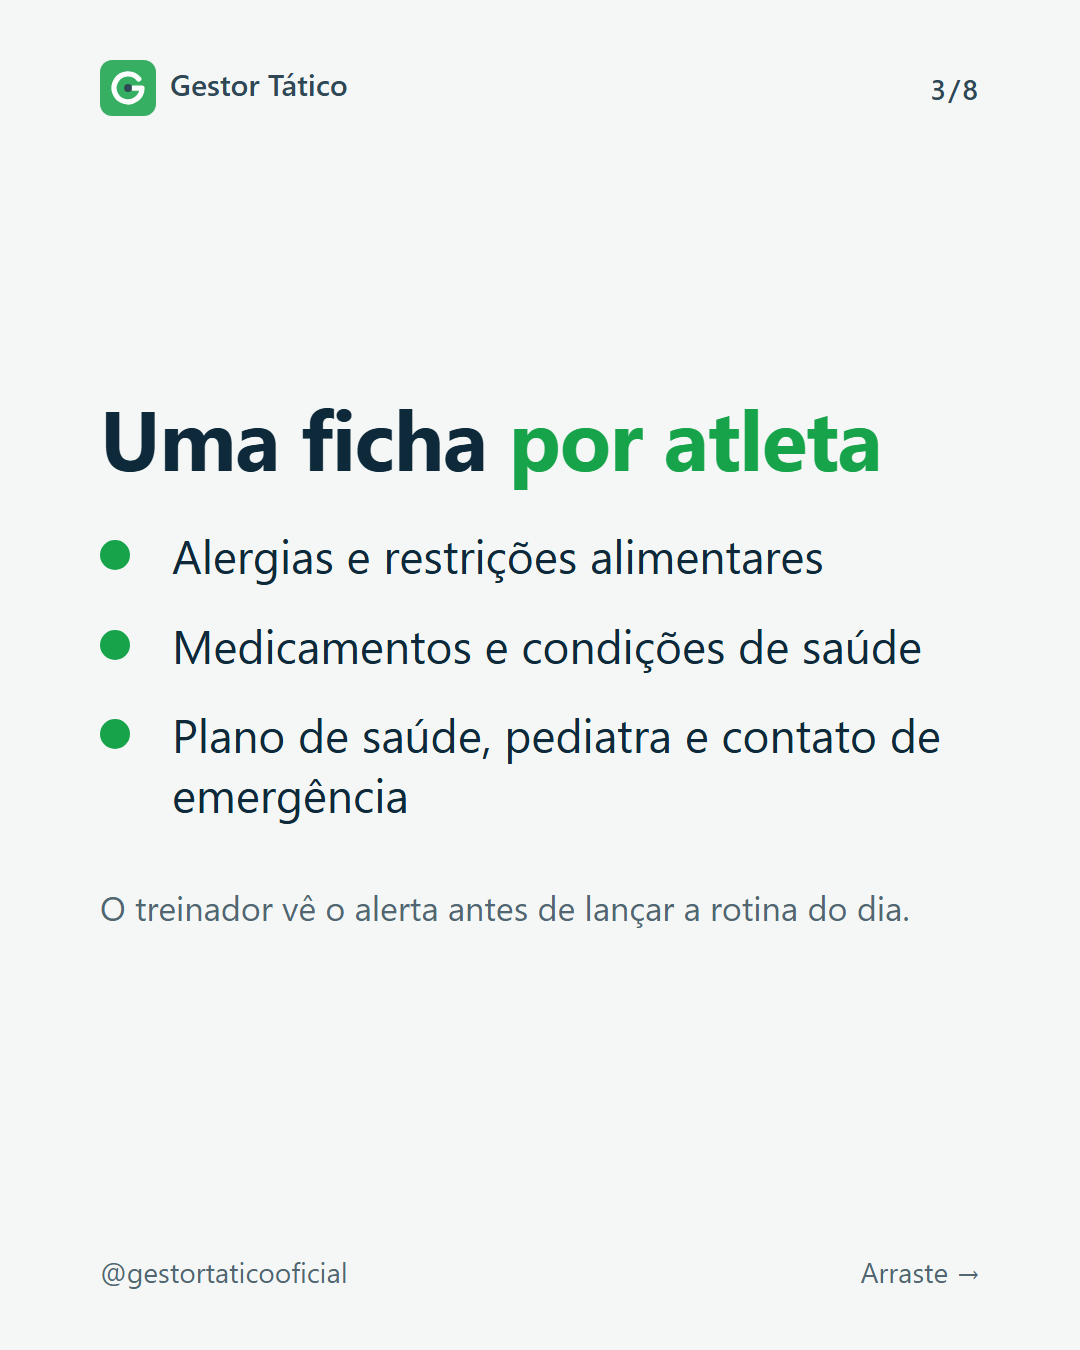
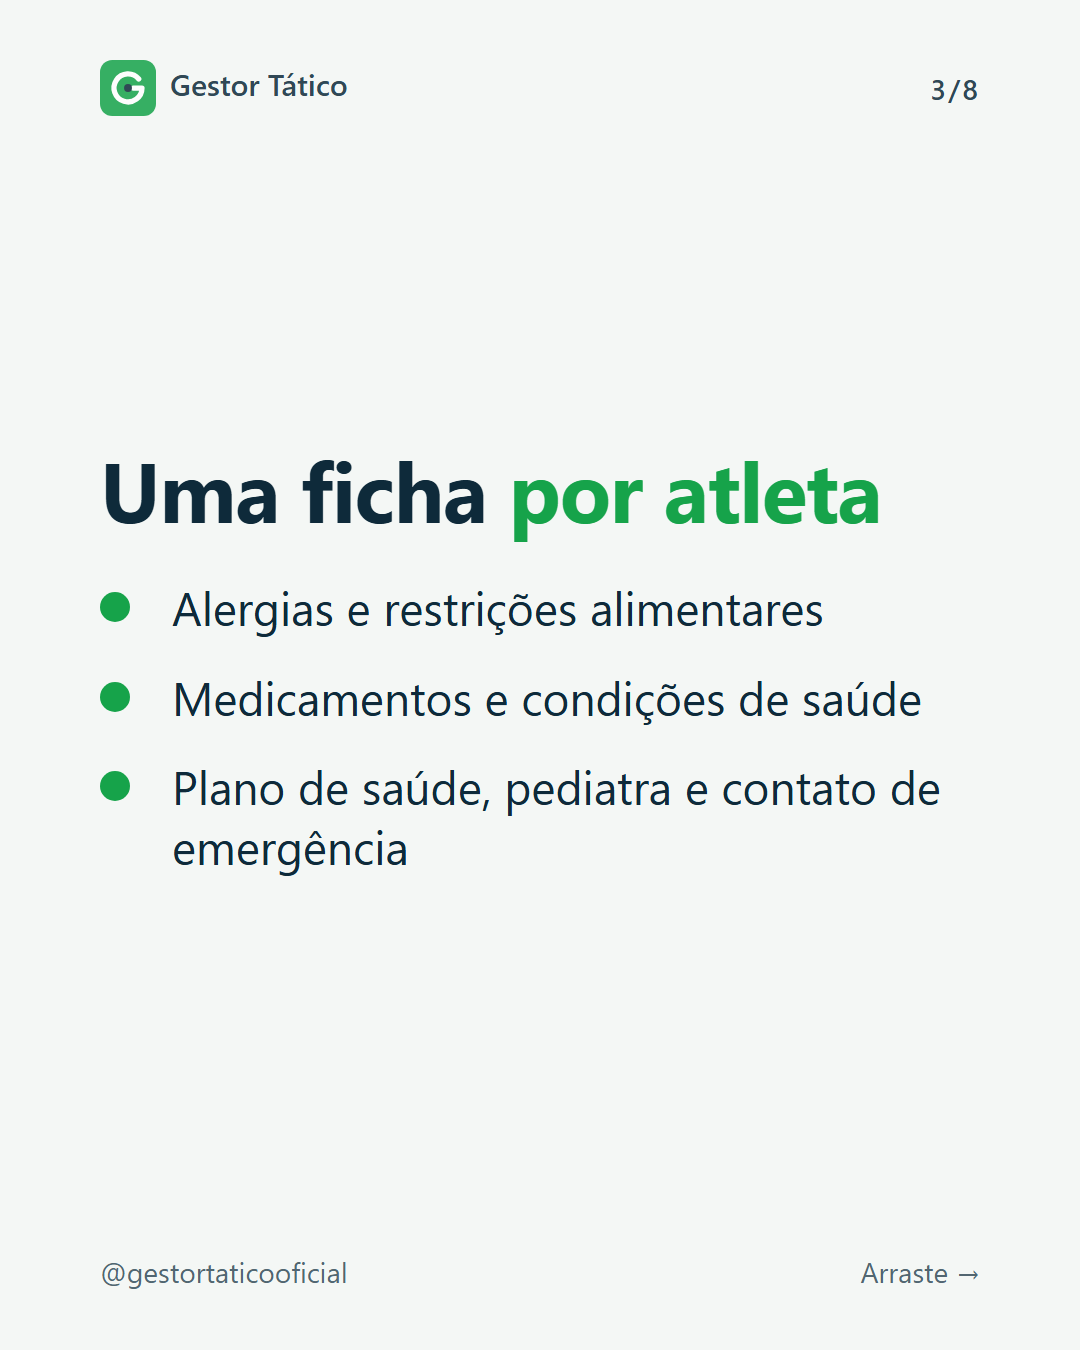
Instagram: carrossel de saúde sem a frase da rotina do dia e rascunhos da semana de 16/11

Changed region(s): [[0.0917, 0.28, 0.8861, 0.6844]]

diff --git a/docs/marca/instagram/decks.js b/docs/marca/instagram/decks.js
@@ -42,7 +42,7 @@ CTA],
 '20261111-saude':[
 {t:'capa',tag:'Ficha de saúde',h:'Atestado <em>vencido</em> e ninguém percebeu?',p:'Ficha de saúde e atestado médico no mesmo lugar do atleta.'},
 {h:'Escolinha guarda <em>dado de criança</em>',p:'Alergias, medicamentos, laudos, atestados. Um papel perdido na mochila do treinador não é um bom arquivo.'},
-{t:'claro',h:'Uma ficha <em>por atleta</em>',list:['Alergias e restrições alimentares','Medicamentos e condições de saúde','Plano de saúde, pediatra e contato de emergência'],n:'O treinador vê o alerta antes de lançar a rotina do dia.'},
+{t:'claro',h:'Uma ficha <em>por atleta</em>',list:['Alergias e restrições alimentares','Medicamentos e condições de saúde','Plano de saúde, pediatra e contato de emergência']},
 {h:'Atestado com <em>data de validade</em>',p:'Registre até quando o atestado vale. O sistema mostra um selo na lista de atletas e um filtro de vencidos e de vencendo em 30 dias.'},
 {t:'claro',h:'O aviso aparece <em>onde você decide</em>',list:['No painel de atenção da coordenação','Na convocação, se não vale na data do jogo','No portal, para a família providenciar o novo']},
 {h:'Documentos <em>não ficam em link público</em>',p:'Exames e laudos anexados só abrem para a equipe do clube e para o responsável daquele atleta. Toda alteração fica no histórico.'},
@@ -53,4 +53,25 @@ CTA],
 ],
 '20261113-pergunta':[
 {t:'capa',tag:'Pergunta do dia',h:'Como os pais ficam sabendo da <em>convocação</em>?',p:'Grupo de WhatsApp, recado no treino ou outro jeito? Conta nos comentários.'}
+],
+'20261116-atencao':[
+{t:'capa',tag:'Painel da coordenação',h:'O que pede <em>atenção</em> hoje, numa tela só',p:'Faltas, atestados, estoque e contas: o painel junta o que a coordenação não pode esquecer.'},
+{h:'Problema não avisa <em>quando chega</em>',p:'O atleta some, o atestado vence, a bola acaba, a conta atrasa. Cada coisa mora num caderno, e você descobre tarde.'},
+{t:'claro',h:'Só aparece o que <em>tem ocorrência</em>',p:'O painel lista os alertas do dia. Sem nenhum, mostra que está tudo em dia. Nada de tela cheia de zero.'},
+{h:'No <em>cuidado com os atletas</em>',list:['Atletas com 3 ou mais faltas seguidas','Atestado médico vencido ou perto de vencer','Matrículas aguardando o aceite da família']},
+{t:'claro',h:'No <em>dinheiro e no material</em>',list:['Contas a pagar atrasadas','Produtos com estoque baixo ou zerado','Recebido no mês e a vencer']},
+{h:'Cada alerta é um <em>atalho</em>',p:'Tocou no aviso, abre a lista já filtrada: os atletas faltosos, os atestados vencidos, os produtos sem estoque.'},
+{t:'claro',h:'Mais de uma <em>unidade</em>?',p:'Veja a visão geral ou escolha uma unidade para recortar o painel.',n:'O estoque e as contas a pagar seguem consolidados, não por unidade.'},
+CTA],
+'20261118-campeonato':[
+{t:'capa',tag:'Campeonatos',h:'Como foi a <em>campanha</em> da categoria?',p:'Vitórias, gols e artilheiros do campeonato, a partir das súmulas.'},
+{h:'Resultado perdido em <em>grupo de WhatsApp</em>',p:'No fim do campeonato ninguém lembra o placar da terceira rodada nem quem foi o artilheiro.'},
+{t:'claro',h:'Placar e súmula, <em>jogo a jogo</em>',p:'Depois da partida, lance o placar e, na convocação, os gols e os cartões de cada atleta.',n:'A soma dos gols dos atletas não pode passar do placar.'},
+{h:'A campanha de cada <em>categoria</em>',list:['Jogos, vitórias, empates e derrotas','Gols pró, gols contra e saldo','Pontos: vitória vale 3, empate vale 1']},
+{t:'claro',h:'Artilharia <em>sem planilha</em>',p:'Os gols lançados nas súmulas somam sozinhos numa lista de artilheiros do campeonato.'},
+{h:'Disciplina <em>à vista</em>',p:'A página do campeonato mostra quem está suspenso e quem está pendurado, pelo limite de amarelos que você definiu.'},
+{t:'claro',h:'O que ele <em>ainda não faz</em>',p:'O sistema registra o lado do seu clube. Não monta a tabela de classificação com os outros times.'},
+CTA],
+'20261120-estoque':[
+{t:'capa',tag:'Estoque',h:'Quantas bolas <em>sobraram</em> no armário?',p:'Entradas, saídas e saldo sempre certo, com aviso quando o estoque baixa.'}
 ]};

diff --git a/docs/marca/instagram/semanas/2026-11-16/rascunhos.md b/docs/marca/instagram/semanas/2026-11-16/rascunhos.md
@@ -1,0 +1,90 @@
+# Rascunhos da semana de 16/11/2026 (@gestortaticooficial)
+
+Preparado em 09/11/2026 pelo agente semanal. **Nada foi publicado.** Revise, ajuste e publique pelo Meta Business Suite.
+Obs.: a semana de 09/11 já estava coberta (Reel, Portal, Saúde, pergunta); esta é a seguinte. Temas novos: painel de atenção, campeonato (campanha e artilharia) e estoque.
+
+---
+
+## Seg 16/11: carrossel "O que pede atenção" (8 slides)
+
+- **Formato:** carrossel
+- **Arquivos:** `png/20261116-atencao-1.png` a `png/20261116-atencao-8.png` (o 8 é o CTA)
+- **Horário sugerido:** 12h (ou 19h)
+
+**Legenda:**
+> Atleta que sumiu dos treinos, atestado vencendo, bola acabando, conta atrasada. Cada coisa mora num lugar, e você descobre tarde 👀
+>
+> No painel do Gestor Tático, o que pede atenção aparece numa tela só: atletas com 3 ou mais faltas seguidas, atestados vencidos ou perto de vencer, matrículas aguardando o aceite da família, contas a pagar atrasadas e produtos com estoque baixo. Cada aviso abre a lista já filtrada.
+>
+> Marque quem cuida da coordenação da sua escolinha.
+>
+> Teste grátis por 7 dias: link na bio.
+
+**Hashtags:** #escolinhadefutebol #futebolbase #gestaoesportiva #categoriasdebase #escolinha #treinadordefutebol
+
+**O que este post afirma → onde está a prova**
+- Painel "Atenção" lista só o que tem ocorrência; sem pendência mostra "tudo em dia" → `CLAUDE.md` "Dashboard: painéis de ação"; `site/index.html` ("O que pede atenção, numa tela só").
+- 3+ faltas seguidas, atestado vencido/vencendo em 30 dias, matrículas aguardando aceite, contas a pagar atrasadas, estoque baixo/zerado → `CLAUDE.md` (Chamada e frequência; Validade do atestado; LGPD termo de matrícula; Dashboard; Estoque).
+- Cada item é link para a tela já filtrada → `CLAUDE.md` ("Filtros por query string").
+- Visão geral × por unidade; estoque e contas seguem consolidados → `CLAUDE.md` (Filtro por Unidade). Dito no slide 7.
+- "Recebido no mês e a vencer" (slide 5) vem dos cartões financeiros do painel; aparecem só para perfis do financeiro. Não é número, é recurso.
+
+---
+
+## Qua 18/11: carrossel "Campanha e artilharia do campeonato" (8 slides)
+
+- **Formato:** carrossel
+- **Arquivos:** `png/20261118-campeonato-1.png` a `png/20261118-campeonato-8.png` (o 8 é o CTA)
+- **Horário sugerido:** 19h (ou 12h)
+
+**Legenda:**
+> No fim do campeonato ninguém lembra o placar da terceira rodada, nem quem foi o artilheiro 😅
+>
+> No Gestor Tático, você lança o placar e, na súmula, os gols e cartões de cada atleta. O campeonato mostra sozinho a campanha de cada categoria (jogos, vitórias, empates, derrotas, gols e pontos), a lista de artilheiros e quem está suspenso ou pendurado.
+>
+> Importante: o sistema registra o lado do seu clube. Não monta a tabela de classificação com os outros times.
+>
+> Marque o treinador que vive pedindo o resumo do campeonato.
+>
+> Teste grátis por 7 dias: link na bio.
+
+**Hashtags:** #escolinhadefutebol #futebolbase #categoriasdebase #treinadordefutebol #gestaoesportiva #campeonato
+
+**O que este post afirma → onde está a prova**
+- Campanha por categoria (J/V/E/D, GP, GC, saldo, pontos 3 e 1) e artilheiros, só jogos realizados → `site/convocacao-sumula-e-cartoes.html` ("Desempenho e artilharia por campeonato"); `CLAUDE.md` "Competições".
+- Soma dos gols dos atletas não passa do placar → `CLAUDE.md` (Convocação/súmula).
+- Seção Disciplina com suspensos e pendurados → mesma página; `CLAUDE.md` ("Disciplina: suspensos e pendurados").
+- Sem tabela de classificação → FAQ do site ("Tem tabela de classificação do campeonato? Ainda não").
+
+---
+
+## Sex 20/11: post único de estoque (formato leve)
+
+- **Formato:** post único (imagem)
+- **Arquivo:** `png/20261120-estoque-1.png`
+- **Horário sugerido:** 12h
+
+**Legenda:**
+> Bola, colete, cone, uniforme: material de escolinha some sem ninguém ver 📦
+>
+> No Gestor Tático o estoque tem entradas e saídas, e o saldo é sempre a soma do histórico, então não dá para ele "divergir". Você define o mínimo de cada produto e recebe o aviso quando baixar. Cada movimentação fica no histórico.
+>
+> Quem controla o material da sua escolinha hoje? Conta nos comentários 👇
+>
+> Teste grátis por 7 dias: link na bio.
+
+**Hashtags:** #escolinhadefutebol #futebolbase #gestaoesportiva #categoriasdebase #treinadordefutebol
+
+**O que este post afirma → onde está a prova**
+- Entradas, saídas, saldo sempre certo, aviso de estoque baixo, histórico de cada movimentação → `site/index.html` (seção Estoque); `CLAUDE.md` "Estoque: Produtos + Movimentações".
+- Saldo calculado, não digitado; movimentação não se edita (corrige-se com lançamento contrário) → `CLAUDE.md`.
+
+---
+
+## Pendências para o Cleber confirmar
+1. **Estoque é restrito** a Admin, Coordenador e Financeiro (professor/secretaria-treinador não lança). Se a legenda sugerir que o treinador lança saída de bola, não vale. O texto atual não diz isso.
+2. **Slide 5 do painel** ("Recebido no mês e a vencer"): só aparece para quem é do financeiro, não para o professor. Se preferir, troco por outro item.
+3. **Slide 4 do painel**: "Matrículas aguardando o aceite da família" vale para quem já usa o termo de matrícula no portal.
+4. Os três temas são do segmento clube (campeonato, súmula). Coerente com o público do perfil.
+5. Nenhum post fala de Pix automático, boleto, cartão, WhatsApp, preço ou cupom.
+6. Se publicar o Reel ou outro post fora da ordem, atualizar `calendario.md` (o agente não mexe nele).
